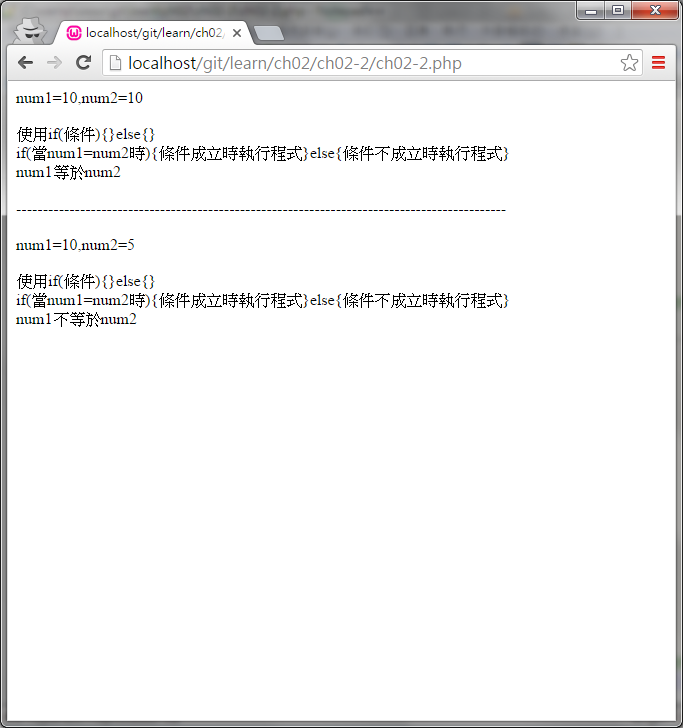
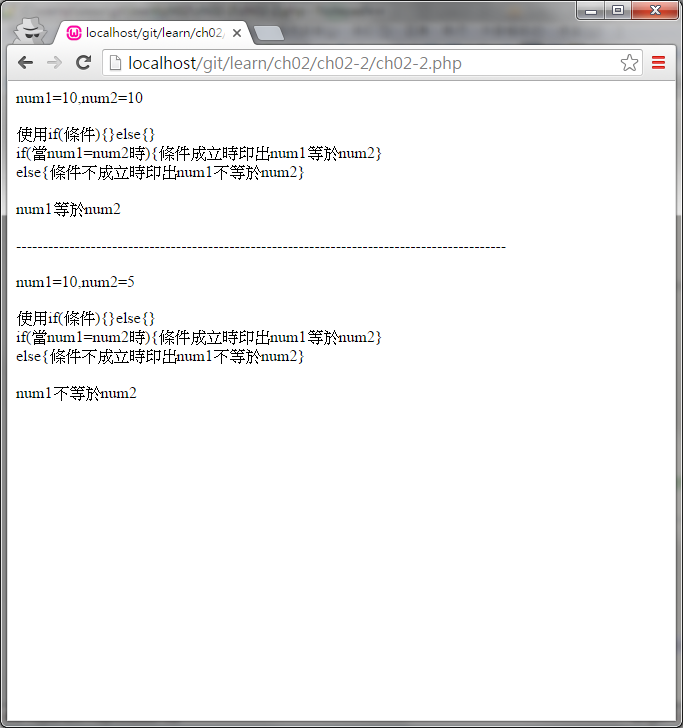
ch02-2

diff --git a/ch02/ch02-2/ch02-2.php b/ch02/ch02-2/ch02-2.php
@@ -8,7 +8,7 @@ echo "num1=".$num1.",num2=".$num2."<br>";
 //宣告兩個變數一個值為10另外一個為10，值的部分可以隨意調整
 
 echo "<br>使用if(條件){}else{}<br>";
-echo "if(當num1=num2時){條件成立時執行程式}else{條件不成立時執行程式}<br>";
+echo "if(當num1=num2時){條件成立時印出num1等於num2}<br>else{條件不成立時印出num1不等於num2}<br><br>";
 if($num1==$num2)
 {
 	echo "num1等於num2<br>";
@@ -28,7 +28,7 @@ echo "<br>num1=".$num1.",num2=".$num2."<br>";
 //將num1設定為10、num2設定為5，值的部分可以隨意調整
 
 echo "<br>使用if(條件){}else{}<br>";
-echo "if(當num1=num2時){條件成立時執行程式}else{條件不成立時執行程式}<br>";
+echo "if(當num1=num2時){條件成立時印出num1等於num2}<br>else{條件不成立時印出num1不等於num2}<br><br>";
 if($num1==$num2)
 {
 	echo "num1等於num2<br>";
